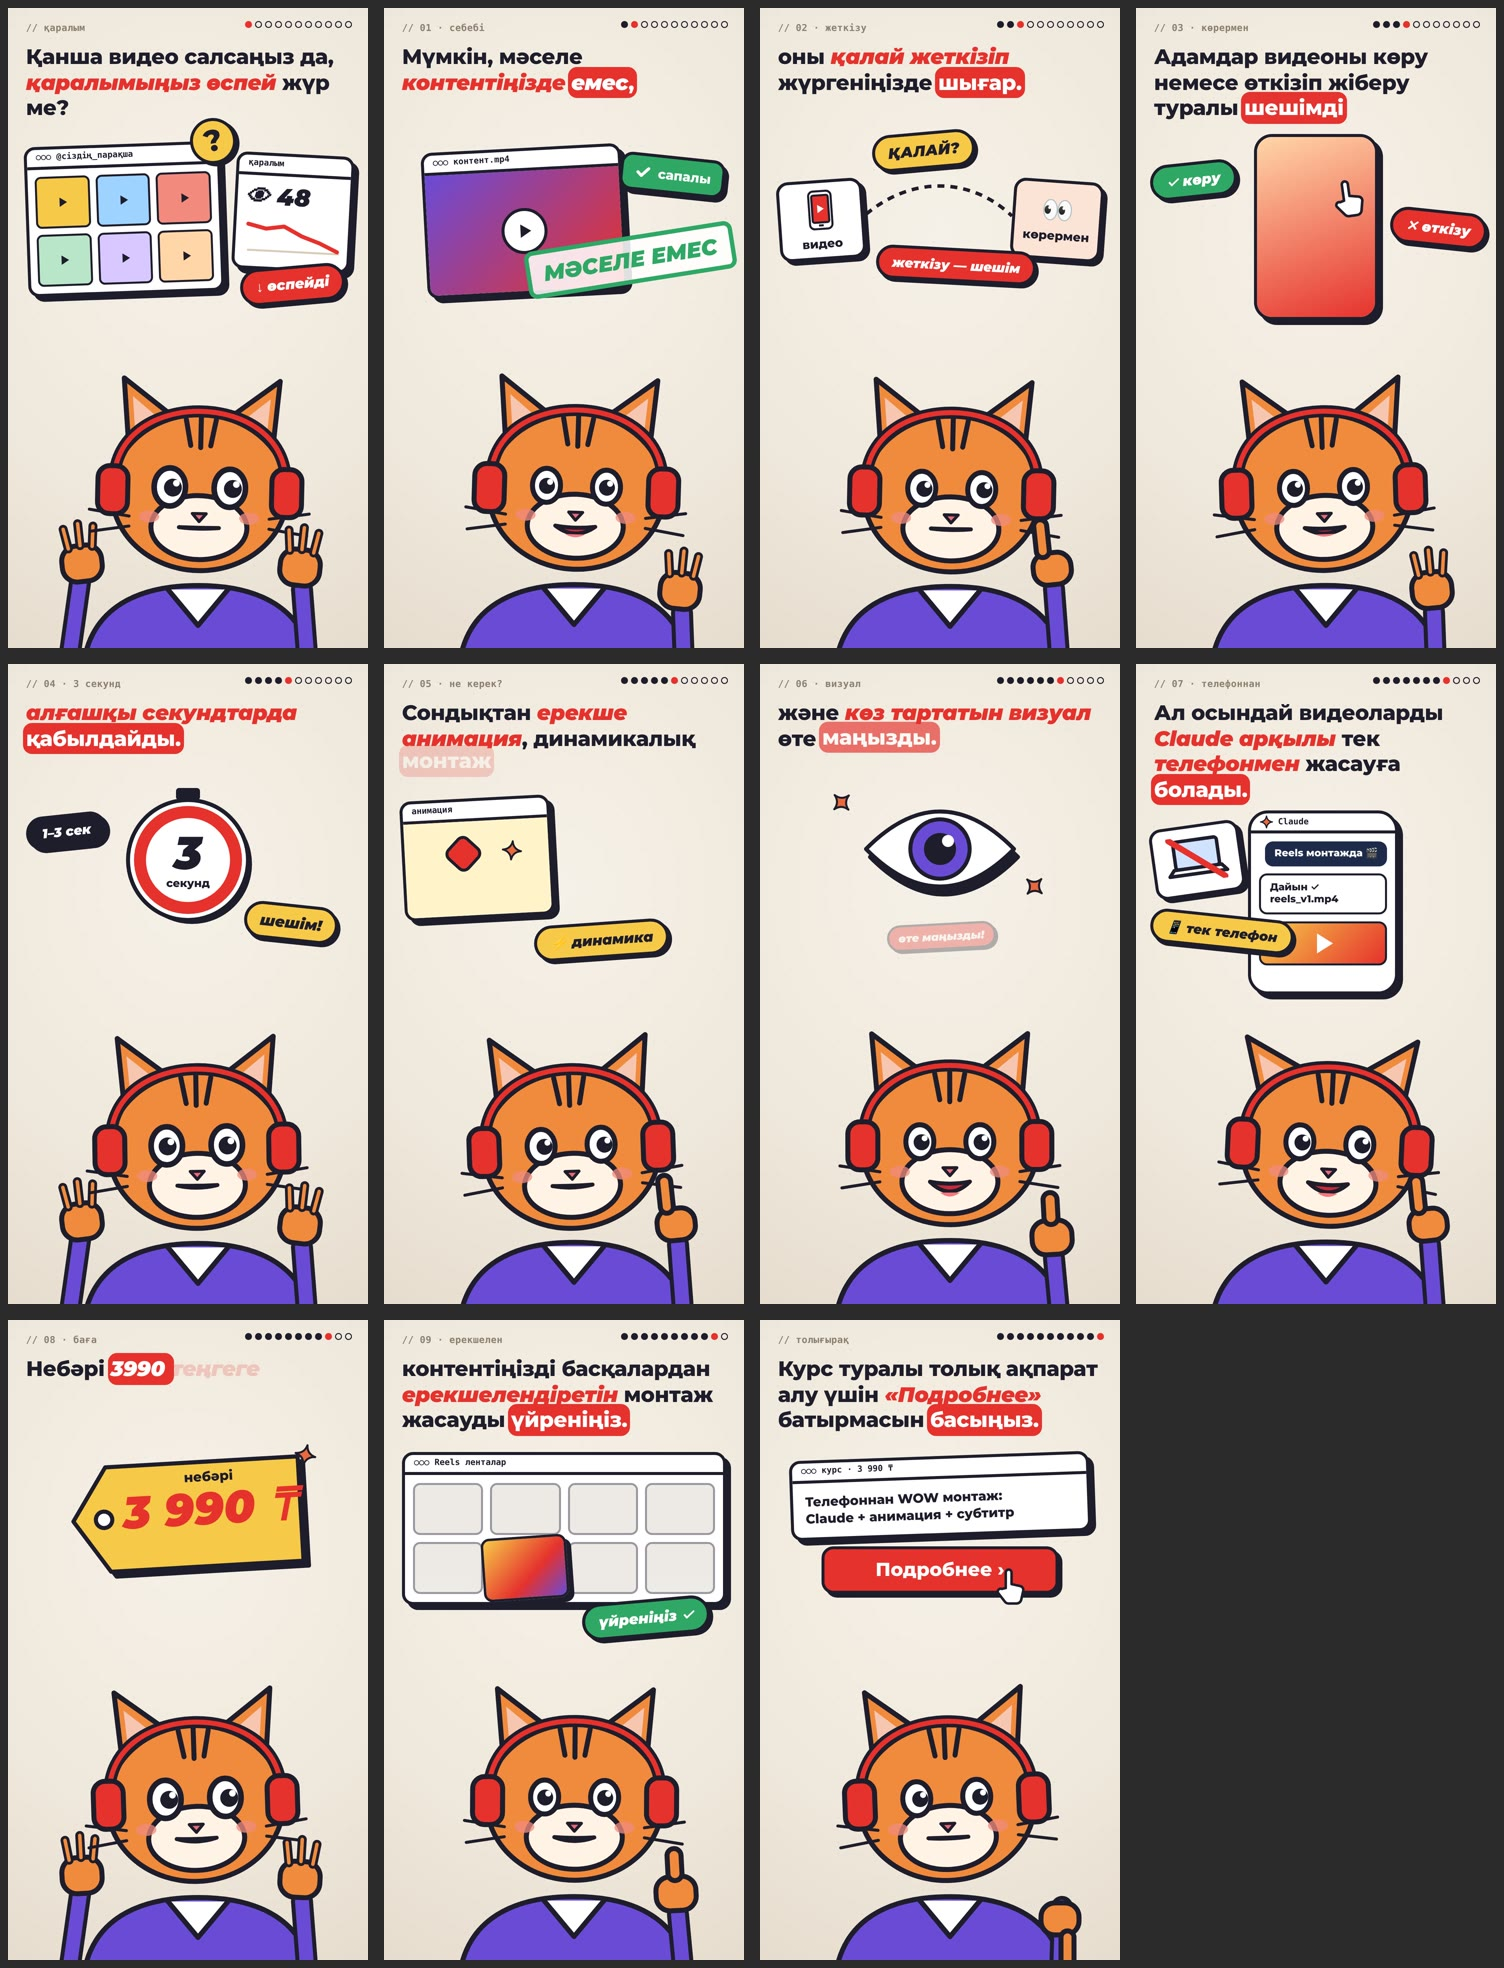
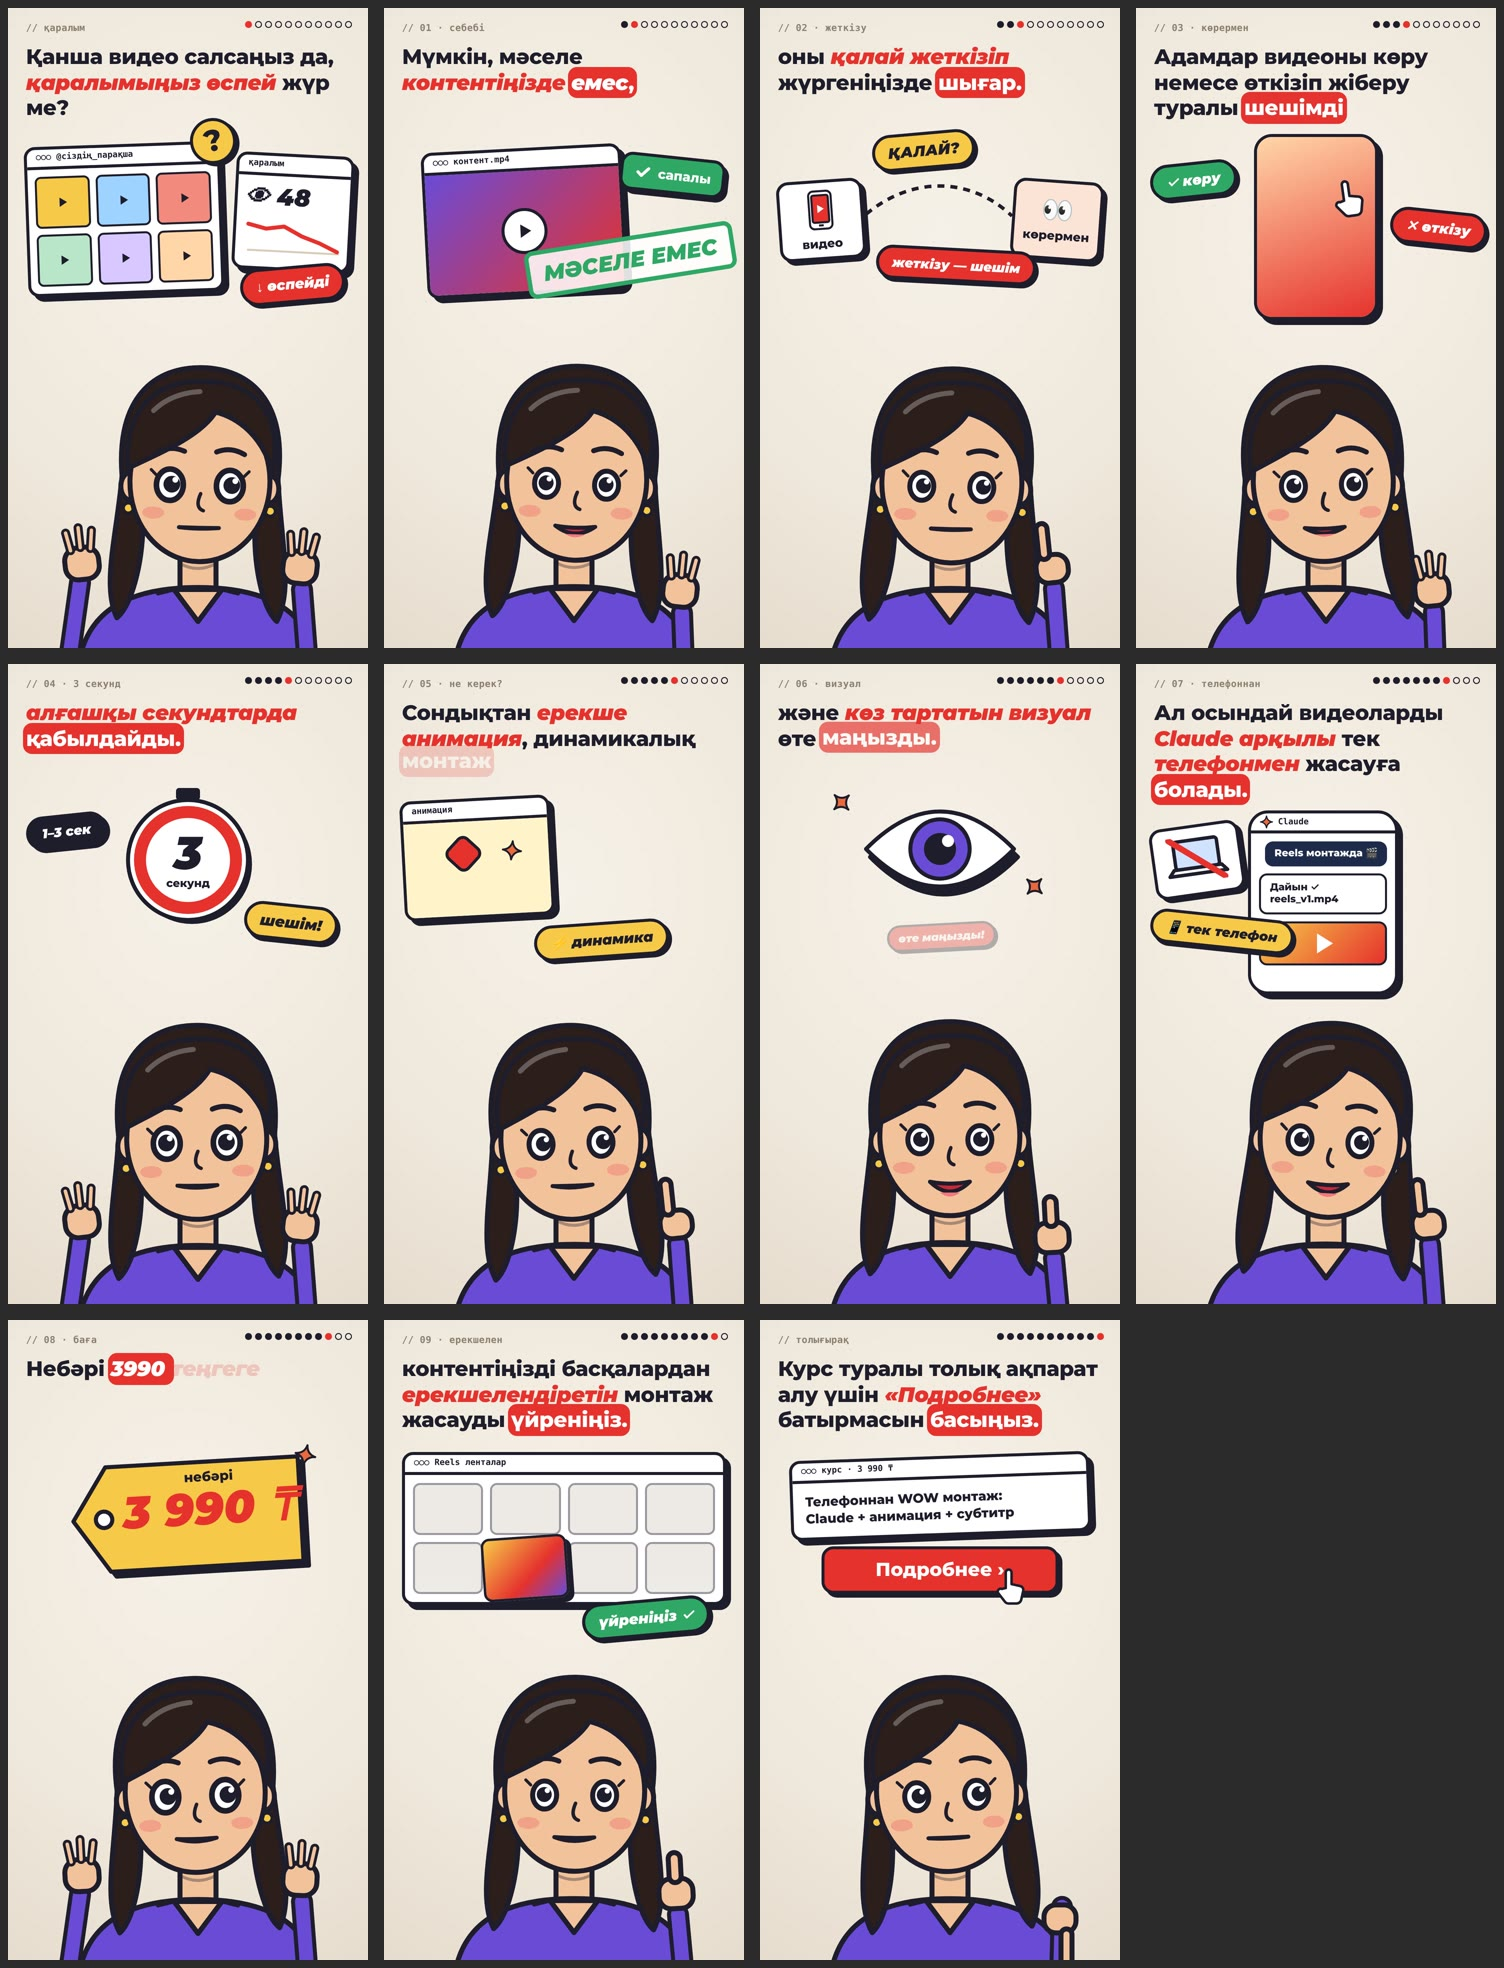
Мульт стиль: мысықтың орнына адам кейіпкері
Claude-Session: https://claude.ai/code/session_017A9pfuai7idtZ89oicBLPH

diff --git a/.claude/skills/matin-video/mult/page.html b/.claude/skills/matin-video/mult/page.html
@@ -45,39 +45,42 @@ html,body{margin:0;width:360px;height:640px;overflow:hidden;background:var(--bg)
  <g id="catall">
  <g id="armL" style="display:none">
   <path d="M60 660 L72 575" fill="none" stroke-width="22"/><path d="M60 660 L72 575" fill="none" stroke-width="14" stroke="#6A4BD6"/>
-  <g id="pawL" transform="translate(74 552)"><rect x="-20" y="-18" width="40" height="36" rx="15" fill="#F08A3C"/>
-   <path d="M-12 -16 L-15 -36 M0 -18 L0 -40 M12 -16 L15 -36" fill="none" stroke-width="9"/><path d="M-12 -16 L-15 -36 M0 -18 L0 -40 M12 -16 L15 -36" fill="none" stroke-width="3.5" stroke="#F08A3C"/></g>
+  <g id="pawL" transform="translate(74 552)"><rect x="-17" y="-16" width="34" height="32" rx="13" fill="#F2C29B"/>
+   <path d="M-10 -14 L-13 -32 M0 -16 L0 -36 M10 -14 L13 -32" fill="none" stroke-width="9"/><path d="M-10 -14 L-13 -32 M0 -16 L0 -36 M10 -14 L13 -32" fill="none" stroke-width="3.5" stroke="#F2C29B"/></g>
  </g>
- <path d="M75 660 C82 600 130 578 190 578 C250 578 298 600 305 660Z" fill="#6A4BD6"/>
- <path d="M160 582 L190 618 L220 582" fill="#fff"/>
+ <rect x="172" y="530" width="36" height="60" fill="#F2C29B"/>
+ <path d="M172 556 Q190 566 208 556" fill="none" stroke-width="3" opacity=".35"/>
+ <path d="M70 660 C78 600 125 580 190 580 C255 580 302 600 310 660Z" fill="#6A4BD6"/>
+ <path d="M166 582 L190 614 L214 582Z" fill="#F2C29B"/>
+ <path d="M150 586 L166 582 L190 614 M230 586 L214 582 L190 614" fill="none" stroke-width="4"/>
  <g id="head">
-  <g id="earL"><path d="M118 440 L112 372 L165 412Z" fill="#F08A3C"/><path d="M124 424 L121 390 L148 412Z" fill="#F7C6B0" stroke="none"/></g>
-  <g id="earR"><path d="M262 440 L268 372 L215 412Z" fill="#F08A3C"/><path d="M256 424 L259 390 L232 412Z" fill="#F7C6B0" stroke="none"/></g>
-  <ellipse cx="190" cy="485" rx="88" ry="78" fill="#F08A3C"/>
-  <path d="M175 412 L180 438 M190 410 L190 440 M205 412 L200 438" fill="none"/>
-  <ellipse cx="190" cy="520" rx="48" ry="32" fill="#FFF3E6"/>
-  <path d="M104 475 C104 380 276 380 276 475" fill="none" stroke-width="12"/>
-  <path d="M104 475 C104 380 276 380 276 475" fill="none" stroke="#E5322D" stroke-width="5"/>
-  <rect x="88" y="460" width="30" height="48" rx="12" fill="#E5322D"/><rect x="262" y="460" width="30" height="48" rx="12" fill="#E5322D"/>
+  <path d="M112 470 C104 392 142 360 190 360 C238 360 276 392 268 470 C272 530 286 580 270 612 C256 600 246 560 246 520 L134 520 C134 560 124 600 110 612 C94 580 108 530 112 470Z" fill="#2B1E1B"/>
+  <ellipse cx="121" cy="480" rx="10" ry="14" fill="#F2C29B"/><ellipse cx="259" cy="480" rx="10" ry="14" fill="#F2C29B"/>
+  <g id="earL"><circle cx="119" cy="502" r="5" fill="#F7C948" stroke-width="3"/></g>
+  <g id="earR"><circle cx="261" cy="502" r="5" fill="#F7C948" stroke-width="3"/></g>
+  <ellipse cx="190" cy="474" rx="70" ry="80" fill="#F2C29B"/>
+  <path d="M118 462 C110 392 158 372 192 374 C236 372 274 400 262 462 C252 430 230 410 204 404 C190 428 150 446 118 462Z" fill="#2B1E1B"/>
+  <path d="M142 404 Q160 386 188 384" fill="none" stroke="#fff" stroke-width="5" opacity=".28"/>
+  <path d="M146 446 Q160 438 174 444 M206 444 Q220 438 234 446" fill="none" stroke-width="5"/>
   <g id="eyes">
-   <g id="eyeL"><ellipse cx="160" cy="480" rx="14" ry="17" fill="#fff"/><g class="pup"><circle cx="162" cy="483" r="8" fill="#1d1d2b" stroke="none"/><circle cx="165" cy="479" r="3" fill="#fff" stroke="none"/></g></g>
-   <g id="eyeR"><ellipse cx="220" cy="480" rx="14" ry="17" fill="#fff"/><g class="pup"><circle cx="222" cy="483" r="8" fill="#1d1d2b" stroke="none"/><circle cx="225" cy="479" r="3" fill="#fff" stroke="none"/></g></g>
+   <g id="eyeL"><ellipse cx="160" cy="478" rx="12" ry="14" fill="#fff"/><g class="pup"><circle cx="161" cy="480" r="7.5" fill="#1d1d2b" stroke="none"/><circle cx="164" cy="476" r="2.6" fill="#fff" stroke="none"/></g></g>
+   <g id="eyeR"><ellipse cx="220" cy="478" rx="12" ry="14" fill="#fff"/><g class="pup"><circle cx="221" cy="480" r="7.5" fill="#1d1d2b" stroke="none"/><circle cx="224" cy="476" r="2.6" fill="#fff" stroke="none"/></g></g>
   </g>
-  <path id="lidL" d="M146 480 Q160 486 174 480" fill="none" stroke-width="4" style="display:none"/>
-  <path id="lidR" d="M206 480 Q220 486 234 480" fill="none" stroke-width="4" style="display:none"/>
-  <ellipse cx="140" cy="510" rx="10" ry="6" fill="#F28B7D" stroke="none" opacity=".75"/><ellipse cx="240" cy="510" rx="10" ry="6" fill="#F28B7D" stroke="none" opacity=".75"/>
-  <path d="M183 506 L197 506 L190 514Z" fill="#E86A7A" stroke-width="3"/>
+  <path d="M146 468 L141 463 M234 468 L239 463" fill="none" stroke-width="3"/>
+  <path id="lidL" d="M148 480 Q160 486 172 480" fill="none" stroke-width="4" style="display:none"/>
+  <path id="lidR" d="M208 480 Q220 486 232 480" fill="none" stroke-width="4" style="display:none"/>
+  <ellipse cx="144" cy="506" rx="11" ry="6" fill="#F28B7D" stroke="none" opacity=".6"/><ellipse cx="236" cy="506" rx="11" ry="6" fill="#F28B7D" stroke="none" opacity=".6"/>
+  <path d="M191 486 Q185 500 194 503" fill="none" stroke-width="3.5"/>
   <path id="mouth" d="M172 520 Q190 548 208 520Z" fill="#C42A3B" stroke-width="4"/>
   <path id="tongue" d="" fill="#F2777F" stroke="none"/>
-  <path d="M120 510 L80 504 M120 520 L82 526 M260 510 L300 504 M260 520 L298 526" fill="none" stroke-width="3"/>
  </g>
  <g id="armR">
   <path id="armRline" d="M300 660 L294 595" fill="none" stroke-width="22"/><path id="armRfill" d="M300 660 L294 595" fill="none" stroke-width="14" stroke="#6A4BD6"/>
   <g id="pawR" transform="translate(292 572)">
-   <g id="pThumb"><rect x="-20" y="-16" width="40" height="34" rx="14" fill="#F08A3C"/><rect x="-7" y="-44" width="14" height="32" rx="7" fill="#F08A3C"/></g>
-   <g id="pOpen"><rect x="-20" y="-18" width="40" height="36" rx="15" fill="#F08A3C"/>
-    <path d="M-12 -16 L-15 -36 M0 -18 L0 -40 M12 -16 L15 -36" fill="none" stroke-width="9"/><path d="M-12 -16 L-15 -36 M0 -18 L0 -40 M12 -16 L15 -36" fill="none" stroke-width="3.5" stroke="#F08A3C"/></g>
-   <g id="pPoint"><rect x="-19" y="-14" width="38" height="32" rx="14" fill="#F08A3C"/><rect x="-14" y="-48" width="13" height="38" rx="6.5" fill="#F08A3C"/></g>
+   <g id="pThumb"><rect x="-17" y="-14" width="34" height="30" rx="12" fill="#F2C29B"/><rect x="-6" y="-40" width="12" height="30" rx="6" fill="#F2C29B"/></g>
+   <g id="pOpen"><rect x="-17" y="-16" width="34" height="32" rx="13" fill="#F2C29B"/>
+    <path d="M-10 -14 L-13 -32 M0 -16 L0 -36 M10 -14 L13 -32" fill="none" stroke-width="9"/><path d="M-10 -14 L-13 -32 M0 -16 L0 -36 M10 -14 L13 -32" fill="none" stroke-width="3.5" stroke="#F2C29B"/></g>
+   <g id="pPoint"><rect x="-16" y="-12" width="32" height="28" rx="12" fill="#F2C29B"/><rect x="-12" y="-44" width="11" height="36" rx="5.5" fill="#F2C29B"/></g>
   </g>
  </g>
  </g>
